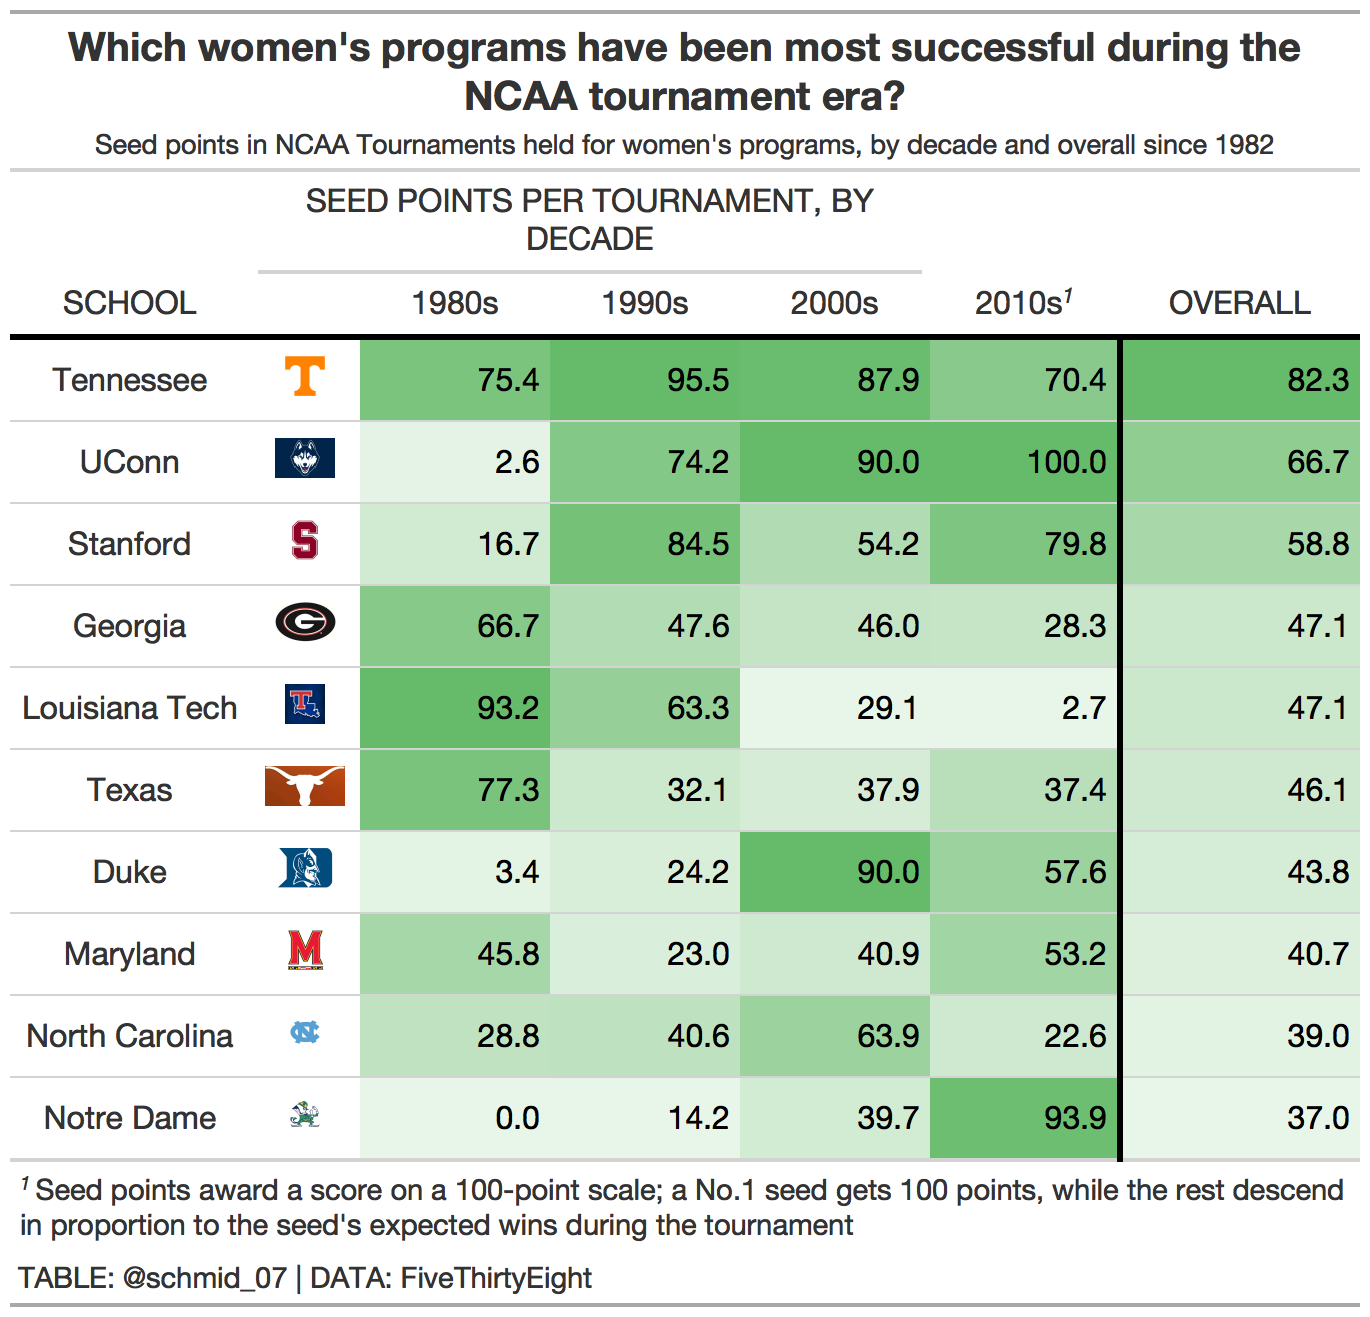
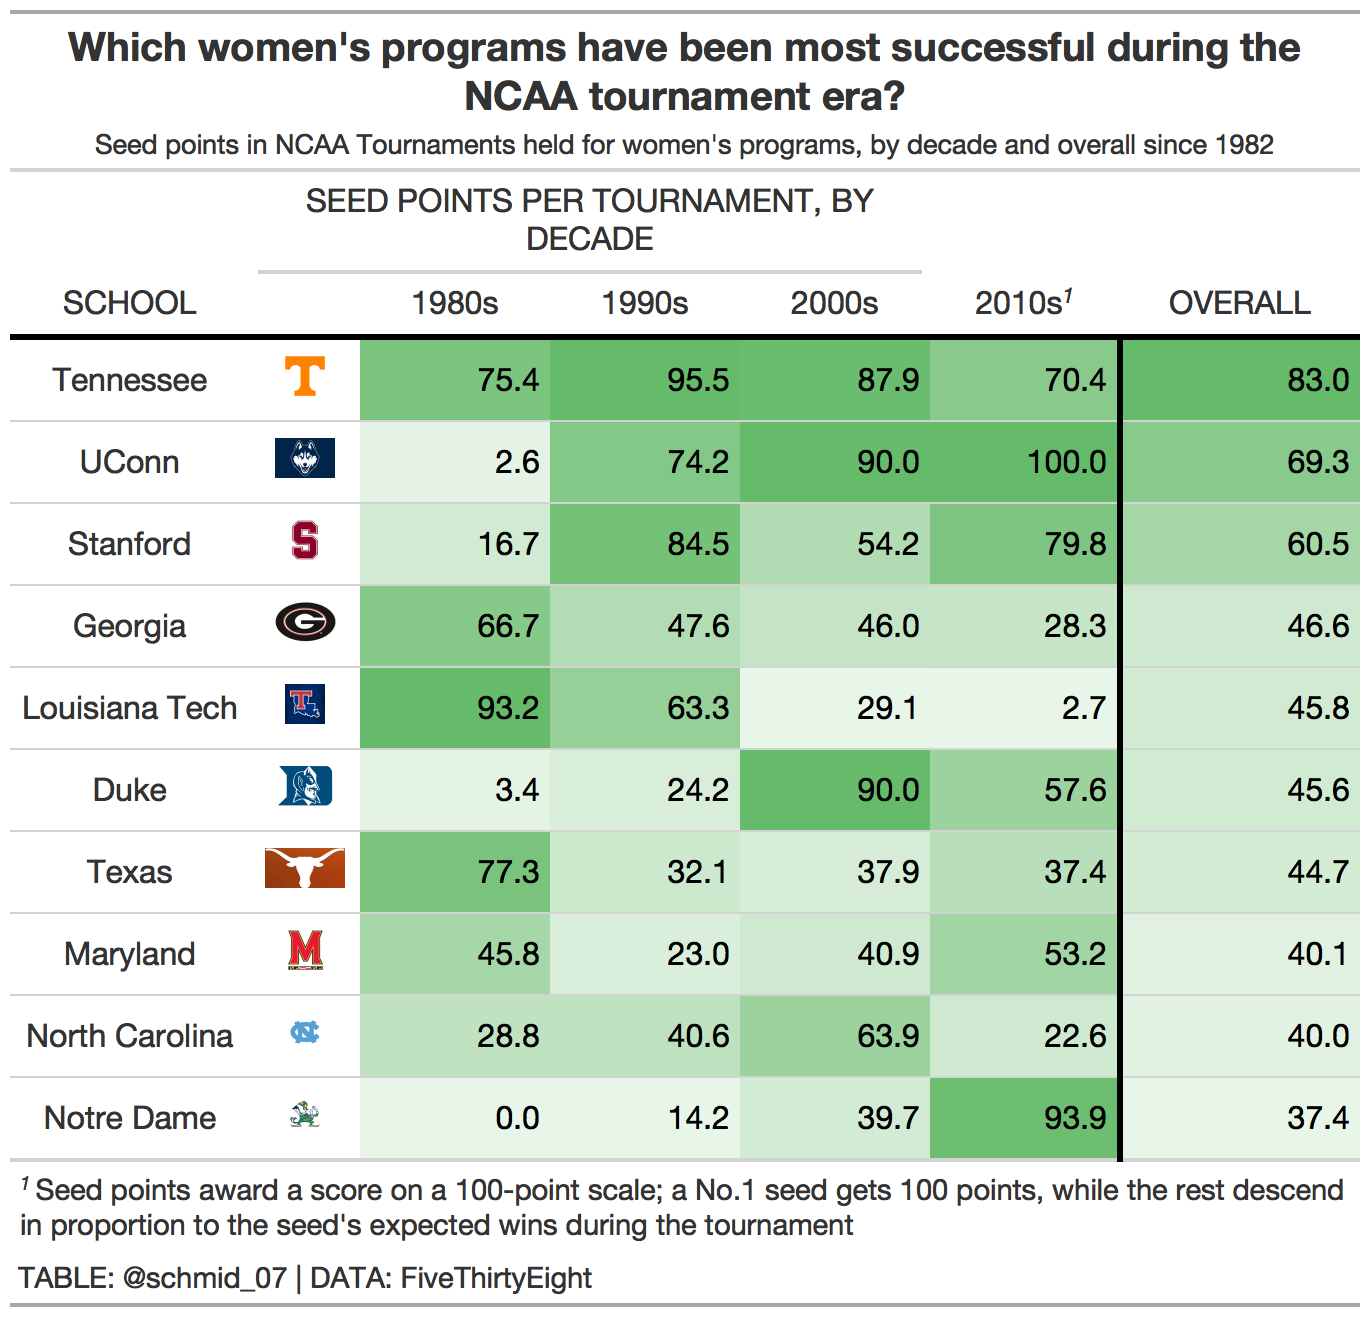
Add files via upload

diff --git a/plots/tt_2020_week41.html b/plots/tt_2020_week41.html
@@ -11,7 +11,7 @@
   font-family: -apple-system, BlinkMacSystemFont, 'Segoe UI', Roboto, Oxygen, Ubuntu, Cantarell, 'Helvetica Neue', 'Fira Sans', 'Droid Sans', Arial, sans-serif;
 }
 
-#tucoqayrku .gt_table {
+#xkbcrgniyb .gt_table {
   display: table;
   border-collapse: collapse;
   margin-left: auto;
@@ -36,7 +36,7 @@
   border-left-color: #D3D3D3;
 }
 
-#tucoqayrku .gt_heading {
+#xkbcrgniyb .gt_heading {
   background-color: #FFFFFF;
   text-align: center;
   border-bottom-color: #FFFFFF;
@@ -48,7 +48,7 @@
   border-right-color: #D3D3D3;
 }
 
-#tucoqayrku .gt_title {
+#xkbcrgniyb .gt_title {
   color: #333333;
   font-size: 125%;
   font-weight: initial;
@@ -58,7 +58,7 @@
   border-bottom-width: 0;
 }
 
-#tucoqayrku .gt_subtitle {
+#xkbcrgniyb .gt_subtitle {
   color: #333333;
   font-size: 85%;
   font-weight: initial;
@@ -68,13 +68,13 @@
   border-top-width: 0;
 }
 
-#tucoqayrku .gt_bottom_border {
+#xkbcrgniyb .gt_bottom_border {
   border-bottom-style: solid;
   border-bottom-width: 2px;
   border-bottom-color: #D3D3D3;
 }
 
-#tucoqayrku .gt_col_headings {
+#xkbcrgniyb .gt_col_headings {
   border-top-style: solid;
   border-top-width: 2px;
   border-top-color: #D3D3D3;
@@ -89,7 +89,7 @@
   border-right-color: #D3D3D3;
 }
 
-#tucoqayrku .gt_col_heading {
+#xkbcrgniyb .gt_col_heading {
   color: #333333;
   background-color: #FFFFFF;
   font-size: 100%;
@@ -109,7 +109,7 @@
   overflow-x: hidden;
 }
 
-#tucoqayrku .gt_column_spanner_outer {
+#xkbcrgniyb .gt_column_spanner_outer {
   color: #333333;
   background-color: #FFFFFF;
   font-size: 100%;
@@ -121,15 +121,15 @@
   padding-right: 4px;
 }
 
-#tucoqayrku .gt_column_spanner_outer:first-child {
+#xkbcrgniyb .gt_column_spanner_outer:first-child {
   padding-left: 0;
 }
 
-#tucoqayrku .gt_column_spanner_outer:last-child {
+#xkbcrgniyb .gt_column_spanner_outer:last-child {
   padding-right: 0;
 }
 
-#tucoqayrku .gt_column_spanner {
+#xkbcrgniyb .gt_column_spanner {
   border-bottom-style: solid;
   border-bottom-width: 2px;
   border-bottom-color: #D3D3D3;
@@ -141,7 +141,7 @@
   width: 100%;
 }
 
-#tucoqayrku .gt_group_heading {
+#xkbcrgniyb .gt_group_heading {
   padding: 8px;
   color: #333333;
   background-color: #FFFFFF;
@@ -163,7 +163,7 @@
   vertical-align: middle;
 }
 
-#tucoqayrku .gt_empty_group_heading {
+#xkbcrgniyb .gt_empty_group_heading {
   padding: 0.5px;
   color: #333333;
   background-color: #FFFFFF;
@@ -178,15 +178,15 @@
   vertical-align: middle;
 }
 
-#tucoqayrku .gt_from_md > :first-child {
+#xkbcrgniyb .gt_from_md > :first-child {
   margin-top: 0;
 }
 
-#tucoqayrku .gt_from_md > :last-child {
+#xkbcrgniyb .gt_from_md > :last-child {
   margin-bottom: 0;
 }
 
-#tucoqayrku .gt_row {
+#xkbcrgniyb .gt_row {
   padding-top: 8px;
   padding-bottom: 8px;
   padding-left: 5px;
@@ -205,7 +205,7 @@
   overflow-x: hidden;
 }
 
-#tucoqayrku .gt_stub {
+#xkbcrgniyb .gt_stub {
   color: #333333;
   background-color: #FFFFFF;
   font-size: 100%;
@@ -217,7 +217,7 @@
   padding-left: 12px;
 }
 
-#tucoqayrku .gt_summary_row {
+#xkbcrgniyb .gt_summary_row {
   color: #333333;
   background-color: #FFFFFF;
   text-transform: inherit;
@@ -227,7 +227,7 @@
   padding-right: 5px;
 }
 
-#tucoqayrku .gt_first_summary_row {
+#xkbcrgniyb .gt_first_summary_row {
   padding-top: 8px;
   padding-bottom: 8px;
   padding-left: 5px;
@@ -237,7 +237,7 @@
   border-top-color: #D3D3D3;
 }
 
-#tucoqayrku .gt_grand_summary_row {
+#xkbcrgniyb .gt_grand_summary_row {
   color: #333333;
   background-color: #FFFFFF;
   text-transform: inherit;
@@ -247,7 +247,7 @@
   padding-right: 5px;
 }
 
-#tucoqayrku .gt_first_grand_summary_row {
+#xkbcrgniyb .gt_first_grand_summary_row {
   padding-top: 8px;
   padding-bottom: 8px;
   padding-left: 5px;
@@ -257,11 +257,11 @@
   border-top-color: #D3D3D3;
 }
 
-#tucoqayrku .gt_striped {
+#xkbcrgniyb .gt_striped {
   background-color: rgba(128, 128, 128, 0.05);
 }
 
-#tucoqayrku .gt_table_body {
+#xkbcrgniyb .gt_table_body {
   border-top-style: solid;
   border-top-width: 2px;
   border-top-color: #D3D3D3;
@@ -270,7 +270,7 @@
   border-bottom-color: #D3D3D3;
 }
 
-#tucoqayrku .gt_footnotes {
+#xkbcrgniyb .gt_footnotes {
   color: #333333;
   background-color: #FFFFFF;
   border-bottom-style: none;
@@ -284,13 +284,13 @@
   border-right-color: #D3D3D3;
 }
 
-#tucoqayrku .gt_footnote {
+#xkbcrgniyb .gt_footnote {
   margin: 0px;
   font-size: 90%;
   padding: 4px;
 }
 
-#tucoqayrku .gt_sourcenotes {
+#xkbcrgniyb .gt_sourcenotes {
   color: #333333;
   background-color: #FFFFFF;
   border-bottom-style: none;
@@ -304,46 +304,46 @@
   border-right-color: #D3D3D3;
 }
 
-#tucoqayrku .gt_sourcenote {
+#xkbcrgniyb .gt_sourcenote {
   font-size: 90%;
   padding: 4px;
 }
 
-#tucoqayrku .gt_left {
+#xkbcrgniyb .gt_left {
   text-align: left;
 }
 
-#tucoqayrku .gt_center {
+#xkbcrgniyb .gt_center {
   text-align: center;
 }
 
-#tucoqayrku .gt_right {
+#xkbcrgniyb .gt_right {
   text-align: right;
   font-variant-numeric: tabular-nums;
 }
 
-#tucoqayrku .gt_font_normal {
+#xkbcrgniyb .gt_font_normal {
   font-weight: normal;
 }
 
-#tucoqayrku .gt_font_bold {
+#xkbcrgniyb .gt_font_bold {
   font-weight: bold;
 }
 
-#tucoqayrku .gt_font_italic {
+#xkbcrgniyb .gt_font_italic {
   font-style: italic;
 }
 
-#tucoqayrku .gt_super {
+#xkbcrgniyb .gt_super {
   font-size: 65%;
 }
 
-#tucoqayrku .gt_footnote_marks {
+#xkbcrgniyb .gt_footnote_marks {
   font-style: italic;
   font-size: 65%;
 }
 </style>
-<div id="tucoqayrku" style="overflow-x:auto;overflow-y:auto;width:auto;height:auto;"><table class="gt_table" style="table-layout: fixed;; width: 0px">
+<div id="xkbcrgniyb" style="overflow-x:auto;overflow-y:auto;width:auto;height:auto;"><table class="gt_table" style="table-layout: fixed;; width: 0px">
   <colgroup>
     <col style="width:120px;"/>
     <col style="width:55px;"/>
@@ -385,7 +385,7 @@
       <td class="gt_row gt_right" style="background-color: #66BB6A; color: #000000;">95.5</td>
       <td class="gt_row gt_right" style="background-color: #6ABD6E; color: #000000;">87.9</td>
       <td class="gt_row gt_right" style="background-color: #89CA8C; color: #000000;">70.4</td>
-      <td class="gt_row gt_right" style="background-color: #66BB6A; color: #000000; border-left-width: 3px; border-left-style: solid; border-left-color: black;">82.3</td>
+      <td class="gt_row gt_right" style="background-color: #66BB6A; color: #000000; border-left-width: 3px; border-left-style: solid; border-left-color: black;">83.0</td>
     </tr>
     <tr>
       <td class="gt_row gt_center">UConn</td>
@@ -394,7 +394,7 @@
       <td class="gt_row gt_right" style="background-color: #83C886; color: #000000;">74.2</td>
       <td class="gt_row gt_right" style="background-color: #66BB6A; color: #000000;">90.0</td>
       <td class="gt_row gt_right" style="background-color: #66BB6A; color: #000000;">100.0</td>
-      <td class="gt_row gt_right" style="background-color: #8FCD91; color: #000000; border-left-width: 3px; border-left-style: solid; border-left-color: black;">66.7</td>
+      <td class="gt_row gt_right" style="background-color: #88CA8B; color: #000000; border-left-width: 3px; border-left-style: solid; border-left-color: black;">69.3</td>
     </tr>
     <tr>
       <td class="gt_row gt_center">Stanford</td>
@@ -403,7 +403,7 @@
       <td class="gt_row gt_right" style="background-color: #75C178; color: #000000;">84.5</td>
       <td class="gt_row gt_right" style="background-color: #B1DCB3; color: #000000;">54.2</td>
       <td class="gt_row gt_right" style="background-color: #7DC580; color: #000000;">79.8</td>
-      <td class="gt_row gt_right" style="background-color: #A8D7A9; color: #000000; border-left-width: 3px; border-left-style: solid; border-left-color: black;">58.8</td>
+      <td class="gt_row gt_right" style="background-color: #A4D6A6; color: #000000; border-left-width: 3px; border-left-style: solid; border-left-color: black;">60.5</td>
     </tr>
     <tr>
       <td class="gt_row gt_center">Georgia</td>
@@ -412,7 +412,7 @@
       <td class="gt_row gt_right" style="background-color: #B2DCB3; color: #000000;">47.6</td>
       <td class="gt_row gt_right" style="background-color: #C4E4C5; color: #000000;">46.0</td>
       <td class="gt_row gt_right" style="background-color: #C6E5C7; color: #000000;">28.3</td>
-      <td class="gt_row gt_right" style="background-color: #CBE8CC; color: #000000; border-left-width: 3px; border-left-style: solid; border-left-color: black;">47.1</td>
+      <td class="gt_row gt_right" style="background-color: #CEE9CF; color: #000000; border-left-width: 3px; border-left-style: solid; border-left-color: black;">46.6</td>
     </tr>
     <tr>
       <td class="gt_row gt_center">Louisiana Tech</td>
@@ -421,16 +421,7 @@
       <td class="gt_row gt_right" style="background-color: #96D098; color: #000000;">63.3</td>
       <td class="gt_row gt_right" style="background-color: #E8F5E9; color: #000000;">29.1</td>
       <td class="gt_row gt_right" style="background-color: #E8F5E9; color: #000000;">2.7</td>
-      <td class="gt_row gt_right" style="background-color: #CBE8CC; color: #000000; border-left-width: 3px; border-left-style: solid; border-left-color: black;">47.1</td>
-    </tr>
-    <tr>
-      <td class="gt_row gt_center">Texas</td>
-      <td class="gt_row gt_center"><img src="https://raw.githubusercontent.com/schmid07/TT-2020-Week-41/main/img/Texas.jpg" style="height:20px;"></td>
-      <td class="gt_row gt_right" style="background-color: #79C37C; color: #000000;">77.3</td>
-      <td class="gt_row gt_right" style="background-color: #CCE8CD; color: #000000;">32.1</td>
-      <td class="gt_row gt_right" style="background-color: #D6ECD6; color: #000000;">37.9</td>
-      <td class="gt_row gt_right" style="background-color: #B9DFBA; color: #000000;">37.4</td>
-      <td class="gt_row gt_right" style="background-color: #CEE9CF; color: #000000; border-left-width: 3px; border-left-style: solid; border-left-color: black;">46.1</td>
+      <td class="gt_row gt_right" style="background-color: #D1EAD1; color: #000000; border-left-width: 3px; border-left-style: solid; border-left-color: black;">45.8</td>
     </tr>
     <tr>
       <td class="gt_row gt_center">Duke</td>
@@ -439,7 +430,16 @@
       <td class="gt_row gt_right" style="background-color: #D8EED9; color: #000000;">24.2</td>
       <td class="gt_row gt_right" style="background-color: #66BB6A; color: #000000;">90.0</td>
       <td class="gt_row gt_right" style="background-color: #9CD29E; color: #000000;">57.6</td>
-      <td class="gt_row gt_right" style="background-color: #D5ECD6; color: #000000; border-left-width: 3px; border-left-style: solid; border-left-color: black;">43.8</td>
+      <td class="gt_row gt_right" style="background-color: #D1EAD2; color: #000000; border-left-width: 3px; border-left-style: solid; border-left-color: black;">45.6</td>
+    </tr>
+    <tr>
+      <td class="gt_row gt_center">Texas</td>
+      <td class="gt_row gt_center"><img src="https://raw.githubusercontent.com/schmid07/TT-2020-Week-41/main/img/Texas.jpg" style="height:20px;"></td>
+      <td class="gt_row gt_right" style="background-color: #79C37C; color: #000000;">77.3</td>
+      <td class="gt_row gt_right" style="background-color: #CCE8CD; color: #000000;">32.1</td>
+      <td class="gt_row gt_right" style="background-color: #D6ECD6; color: #000000;">37.9</td>
+      <td class="gt_row gt_right" style="background-color: #B9DFBA; color: #000000;">37.4</td>
+      <td class="gt_row gt_right" style="background-color: #D4EBD4; color: #000000; border-left-width: 3px; border-left-style: solid; border-left-color: black;">44.7</td>
     </tr>
     <tr>
       <td class="gt_row gt_center">Maryland</td>
@@ -448,7 +448,7 @@
       <td class="gt_row gt_right" style="background-color: #DAEFDB; color: #000000;">23.0</td>
       <td class="gt_row gt_right" style="background-color: #CFE9D0; color: #000000;">40.9</td>
       <td class="gt_row gt_right" style="background-color: #A2D5A4; color: #000000;">53.2</td>
-      <td class="gt_row gt_right" style="background-color: #DDF0DE; color: #000000; border-left-width: 3px; border-left-style: solid; border-left-color: black;">40.7</td>
+      <td class="gt_row gt_right" style="background-color: #E0F1E1; color: #000000; border-left-width: 3px; border-left-style: solid; border-left-color: black;">40.1</td>
     </tr>
     <tr>
       <td class="gt_row gt_center">North Carolina</td>
@@ -457,7 +457,7 @@
       <td class="gt_row gt_right" style="background-color: #BEE1BF; color: #000000;">40.6</td>
       <td class="gt_row gt_right" style="background-color: #9BD29D; color: #000000;">63.9</td>
       <td class="gt_row gt_right" style="background-color: #CEE9CF; color: #000000;">22.6</td>
-      <td class="gt_row gt_right" style="background-color: #E2F2E3; color: #000000; border-left-width: 3px; border-left-style: solid; border-left-color: black;">39.0</td>
+      <td class="gt_row gt_right" style="background-color: #E1F2E2; color: #000000; border-left-width: 3px; border-left-style: solid; border-left-color: black;">40.0</td>
     </tr>
     <tr>
       <td class="gt_row gt_center">Notre Dame</td>
@@ -466,7 +466,7 @@
       <td class="gt_row gt_right" style="background-color: #E8F5E9; color: #000000;">14.2</td>
       <td class="gt_row gt_right" style="background-color: #D2EBD3; color: #000000;">39.7</td>
       <td class="gt_row gt_right" style="background-color: #6DBE70; color: #000000;">93.9</td>
-      <td class="gt_row gt_right" style="background-color: #E8F5E9; color: #000000; border-left-width: 3px; border-left-style: solid; border-left-color: black;">37.0</td>
+      <td class="gt_row gt_right" style="background-color: #E8F5E9; color: #000000; border-left-width: 3px; border-left-style: solid; border-left-color: black;">37.4</td>
     </tr>
   </tbody>
   <tfoot class="gt_sourcenotes">
